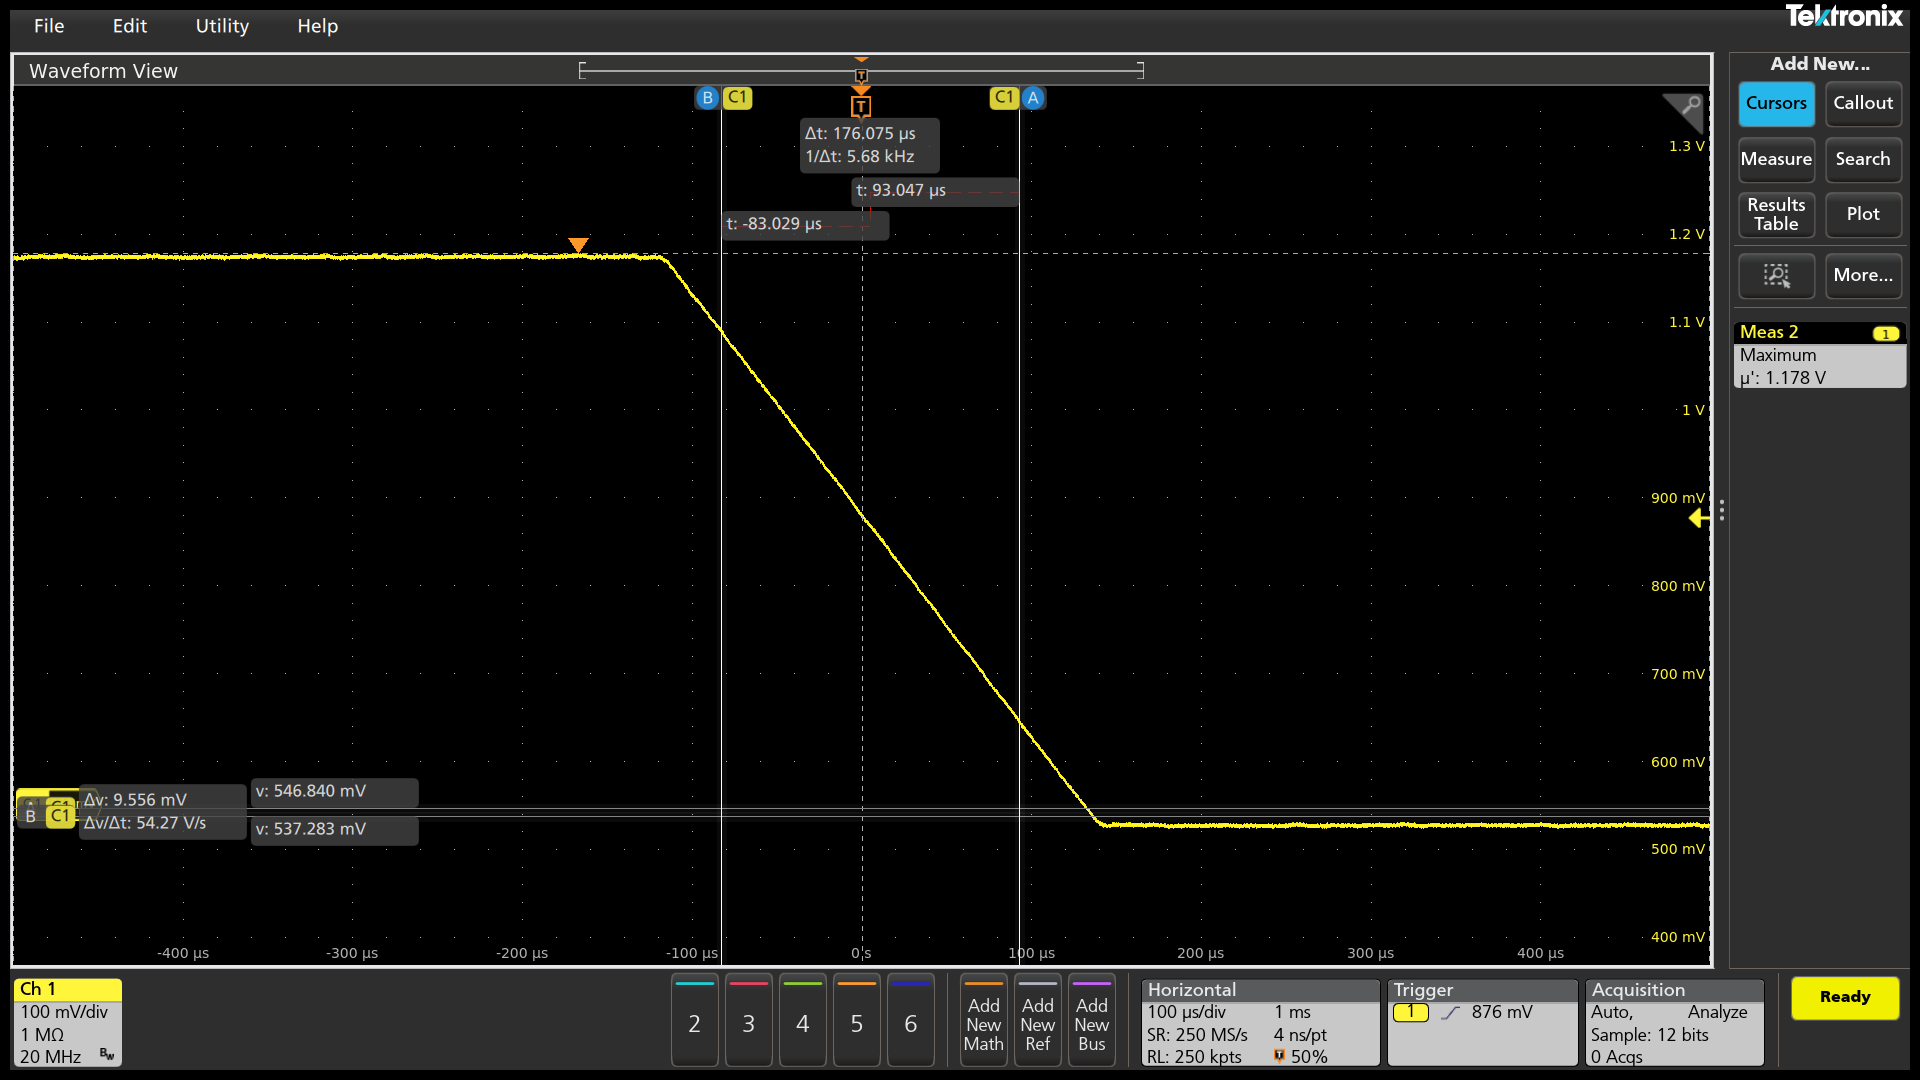
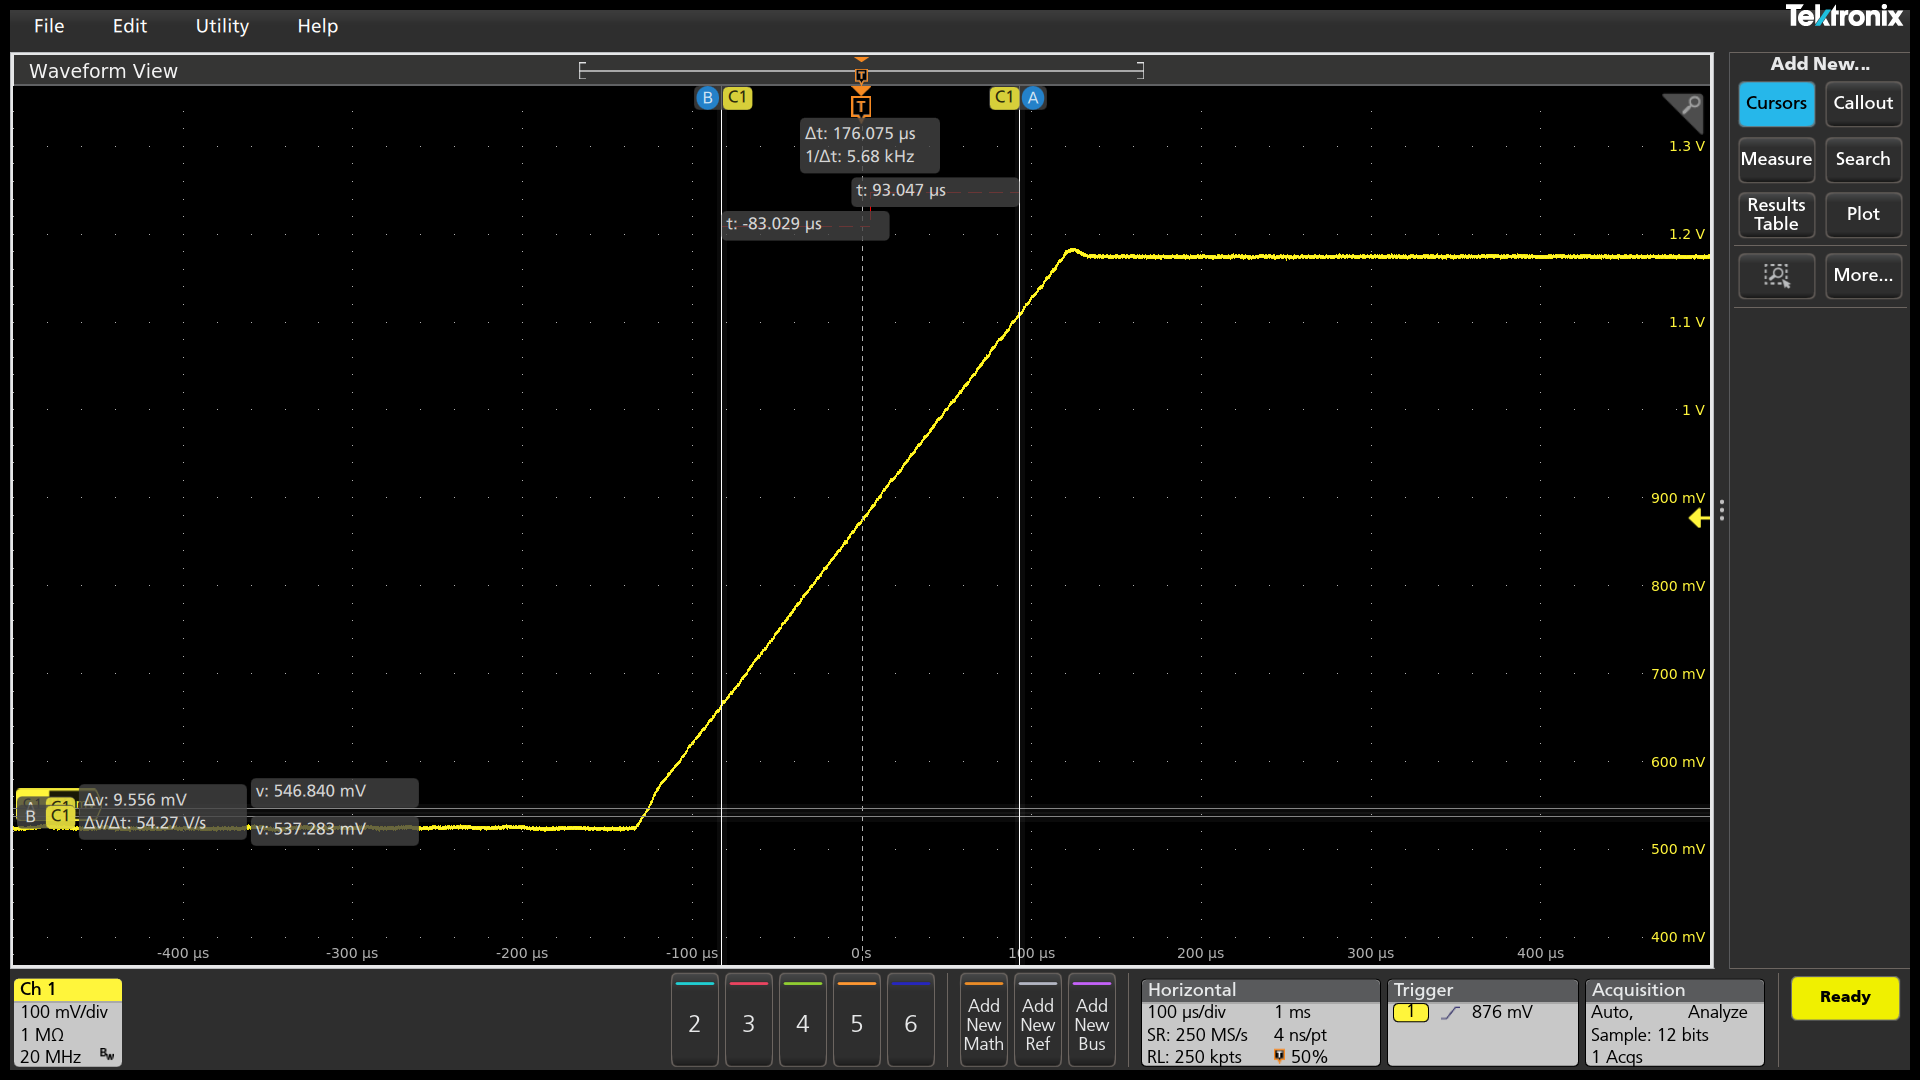
remove while loop, just add simple delay to wait for the scope to trigger at next VID

diff --git a/LS_Test_PSI_Transition.py b/LS_Test_PSI_Transition.py
@@ -75,6 +75,7 @@ class PSI_Transition():
 
             #dict to store the results for  test case
             Output_data["PSI_Transition"]["Test Case"]["{}".format(test_id)]={"measured data":None}
+            Output_data["PSI_Transition"]["Test Case"]["{}".format(test_id)]["measured data"]={"Rising_edge":{},"Falling_edge":{}}
             #grab the value for the rising and falling edge test cases
             rising_edge=test_data["rising_edge"]
             falling_edge=test_data["falling_edge"]
@@ -113,14 +114,12 @@ class PSI_Transition():
 
                     self.SVI3.key_in_value('VID','{}mV'.format(rising_edge["Target_VID (mV)"]))
                     self.SVI3.click('Set_VID')
-                    
-                    sl(1)
+                    output_status("sleep for 10 seconds to wait for the voltage to settle")
+                    sl(10)
                     self.SVI3.minimize()
-                    maximum=self.scope.measure_maximum()
-                    while maximum>2000:
-                        maximum=self.scope.measure_maximum()
-                        sl(0.1)
+                    
                     filepath=ir.filepath_creation(self.test_key,test_id,"Rising_edge")
+                    print(f"saving screenshot to {filepath}")
                     self.scope.take_screenshot(filepath)
                     sl(1)
 
@@ -138,14 +137,10 @@ class PSI_Transition():
 
                     self.SVI3.key_in_value('VID','{}mV'.format(falling_edge["Target_VID (mV)"]))
                     self.SVI3.click('Set_VID')
-                    sl(1)
+                    output_status("sleep for 10 seconds to wait for the voltage to settle")
+                    sl(10)
                     self.SVI3.minimize()
 
-                    self.SVI3.minimize()
-                    maximum=self.scope.measure_maximum()
-                    while maximum>2000:
-                        maximum=self.scope.measure_maximum()
-                        sl(0.1)
                     filepath=ir.filepath_creation(self.test_key,test_id,"Falling_edge")
                     self.scope.take_screenshot(filepath)
                     sl(1)

diff --git a/VISA_MSO46B.py b/VISA_MSO46B.py
@@ -85,7 +85,7 @@ class TektronixMSO46B:
         self.inst.write('SAVE:IMAGE "C:/Temp.png"')
         self.inst.query('*OPC?')
         self.inst.write('FILESystem:READFile "C:/Temp.png"')
-        time.sleep(0.2)  # Wait for file to be ready
+        time.sleep(0.4)  # Wait for file to be ready
         raw_data = self.inst.read_raw()
         with open(file_path, 'wb') as f:
             f.write(raw_data)
@@ -345,6 +345,11 @@ class TektronixMSO46B:
 
         return round(v, 3)
 
+    def operation_complete(self):
+        """Wait for the oscilloscope to complete all operations."""
+        state=self.inst.query("*OPC?")  # Clear the status
+        time.sleep(0.5)
+        return state.strip()
     def measure_stable_voltage(self, vid_mV, is_light_load=False):
         """
         Take multiple measurements and return stable average with error checking
